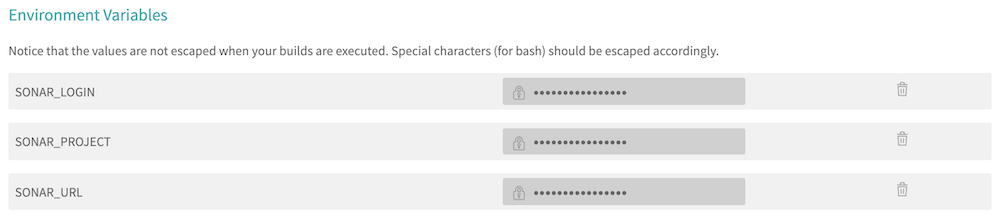
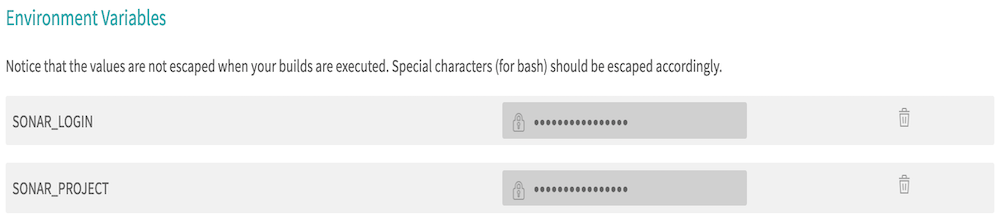
Adding Sonar server url information

diff --git a/content/techtalk/sysadmin/travis_configuration.md b/content/techtalk/sysadmin/travis_configuration.md
@@ -51,9 +51,8 @@ Next step is to set three environment variables in your Travis project configura
 
 * SONAR_LOGIN
 * SONAR_PROJECT
-* SONAR_URL
 
-Sonar login is an user token: In your Sonarqube account go to `User>My Account>Security` Your existing tokens are listed there. Sonar project is your Project Key defined in the Sonar project main section and sonar url is your Sonar server.
+Sonar login is an user token: In your Sonarqube account go to `User>My Account>Security` Your existing tokens are listed there. Sonar project is your Project Key defined in the Sonar project main section.
 
 <img src="/img/techtalks/sysadmin/travis.png">
 
@@ -63,10 +62,16 @@ Finally in your `.travis.yml` file you need to add the command required to start
 language: java
 jdk: openjdk8
 script:
-  - ./gradlew sonarqube
+  - ./gradlew test sonarqube
 ```
 
 [![Quality Gate Status](https://sonar.josdem.io/api/project_badges/measure?project=com.jos.dem.jugoterapia.webflux%3Ajugoterapia-webflux&metric=alert_status)](https://sonar.josdem.io/dashboard?id=com.jos.dem.jugoterapia.webflux%3Ajugoterapia-webflux)
+
+Do not forget to add Sonar server url to your `gradle.properties` file
+
+```properties
+systemProp.sonar.host.url=https://sonar.josdem.io/
+```
 
 To browse a project using Travis configuration go [here](https://github.com/josdem/jugoterapia-webflux).
 
